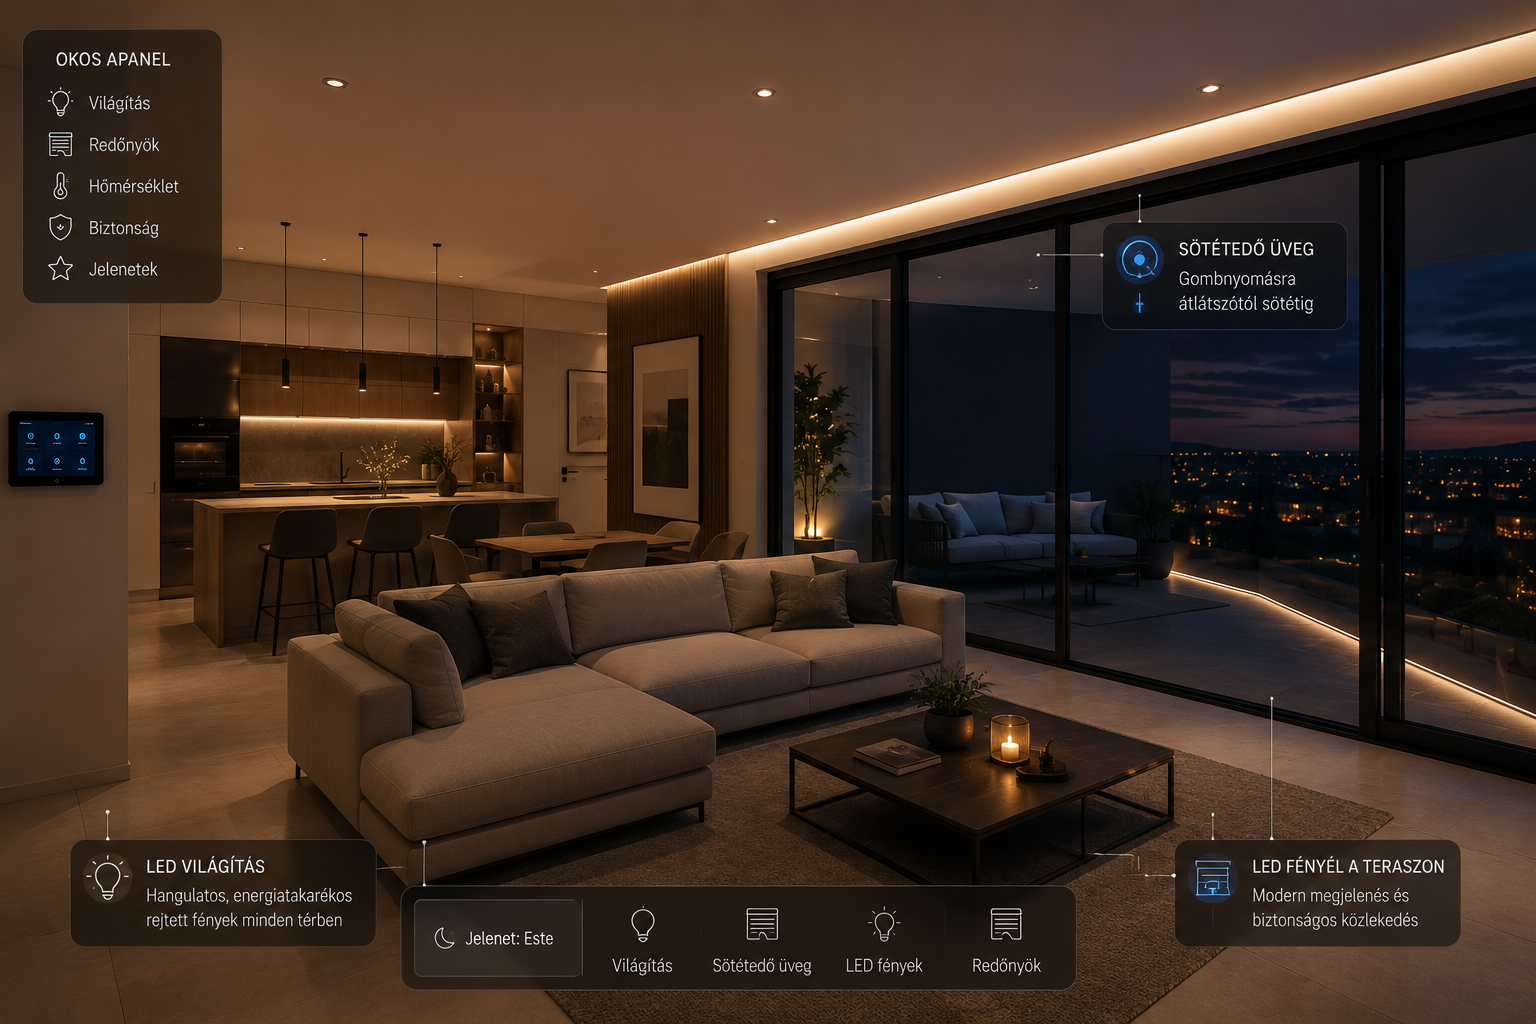
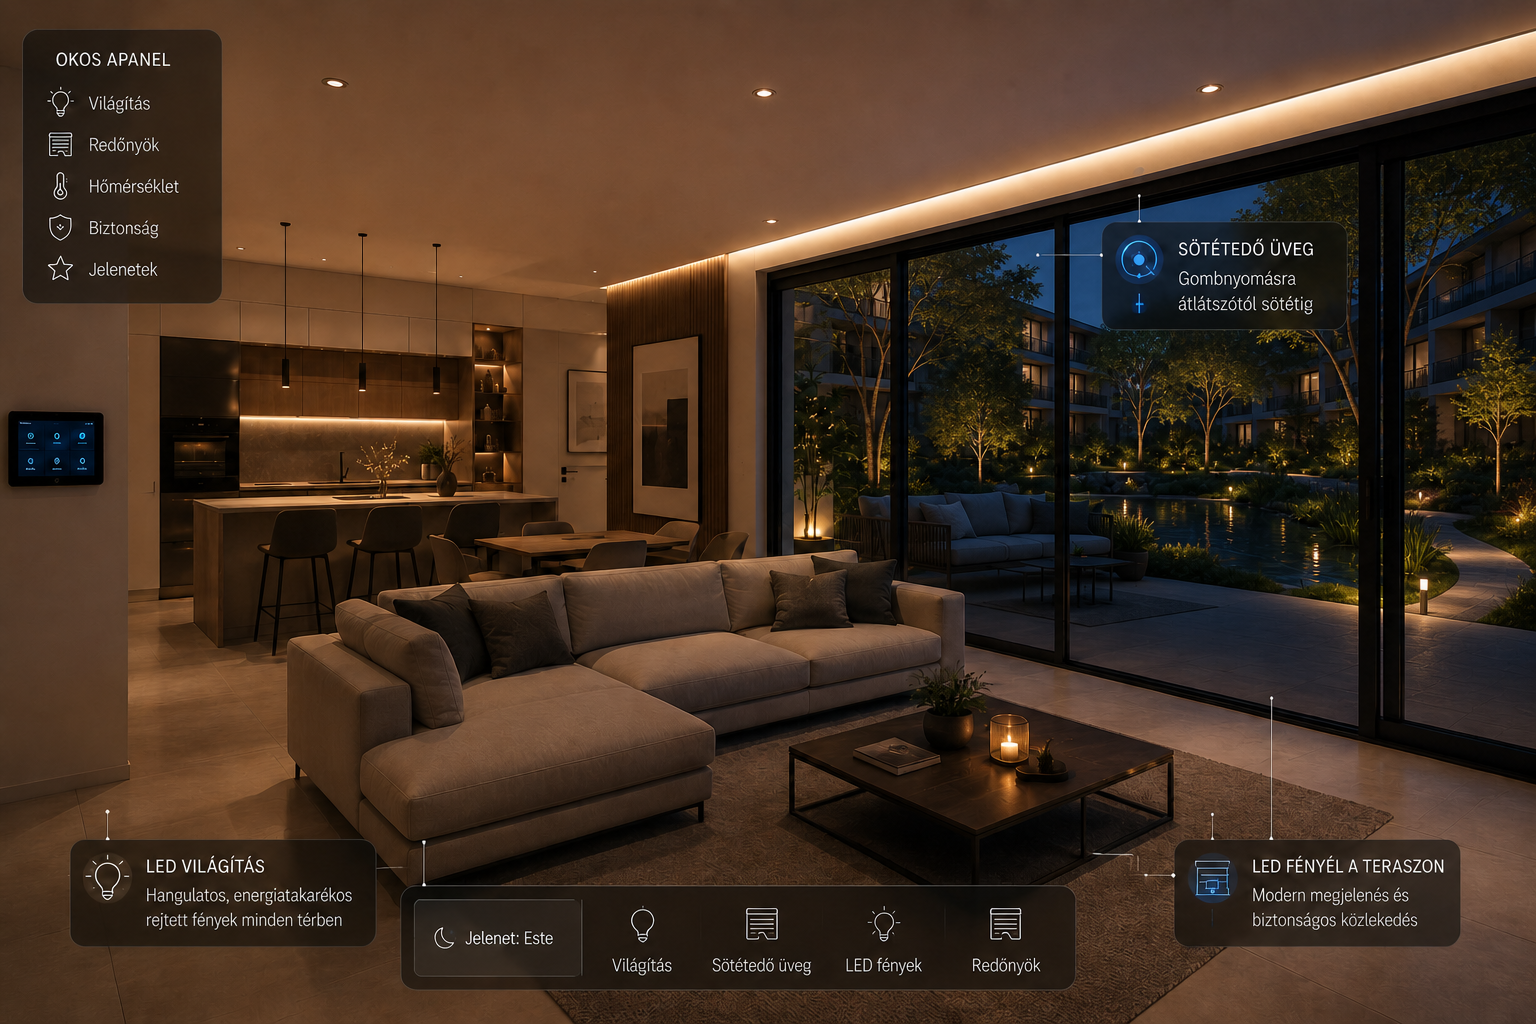
Apply owner content and Smart Park updates

diff --git a/app/page.tsx b/app/page.tsx
@@ -7,7 +7,7 @@ const apartments = [
   ["1 + fél szoba", "38–44 m²", "I–II. emelet", "Első otthonnak"],
   ["2 szoba", "52–61 m²", "I–III. emelet", "Pároknak tervezve"],
   ["3 szoba", "68–82 m²", "I–III. emelet", "Tágas családi tér"],
-  ["Penthouse", "96–118 m²", "IV. emelet", "Panorámás terasszal"],
+  ["Penthouse", "96–118 m²", "IV. emelet", "Tágas tetőterasszal"],
 ];
 
 function Brand({ light = false }: { light?: boolean }) {
@@ -46,8 +46,8 @@ export default function Home() {
     <section className="intro" id="projekt">
       <div><p className="kicker">A projektről</p><h2>Több mint lakóhely.<br/><em>Egy jól megtervezett élet.</em></h2></div>
       <div className="intro-copy">
-        <p>A Marek 5 egy kis léptékű, prémium szemléletű lakófejlesztés, ahol minden részlet a nyugodt hétköznapokat szolgálja. Világos otthonok, természetes anyagok és jövőálló műszaki megoldások.</p>
-        <ul><li>✓ Kortárs, időtálló építészeti karakter</li><li>✓ Energiahatékony gépészet és hőszigetelés</li><li>✓ Saját erkély vagy terasz minden lakáshoz</li></ul>
+        <p>A Marek 5 egy kis léptékű, prémium szemléletű lakófejlesztés, ahol minden részlet a nyugodt hétköznapokat szolgálja. Világos otthonok, természetes anyagok, jövőálló műszaki megoldások és egy parkosított belső kert központi tóval.</p>
+        <ul><li>✓ Kortárs, időtálló építészeti karakter</li><li>✓ Energiahatékony gépészet és hőszigetelés</li><li>✓ Tetőre telepített napelemek a közös terek, a parkvilágítás és a Smart Park energiaellátásának támogatására</li></ul>
         <a className="text-link" href="#elonyok">A részletek <span>→</span></a>
       </div>
       <div className="intro-image"><img src="/komarom/residence-sunset.png" alt="Modern lakóépületek parkosított környezetben naplementekor" className="cover" /></div>
@@ -64,7 +64,7 @@ export default function Home() {
     <section className="benefits" id="elonyok">
       <div className="section-heading"><p className="kicker">A Marek 5 előnyei</p><h2>Minőség, amit<br/><em>minden nap érez.</em></h2></div>
       <div className="benefit-grid">
-        {[["⌂","Átgondolt alaprajzok","Élhető terek, jó benapozás és kényelmes tárolás."],["⌁","Okosotthon-előkészítés","A világítás, árnyékolás és hőmérséklet jövőálló vezérlése."],["◇","Biztonságos környezet","Beléptetőrendszer, videókapu és zárt közösségi terek."],["✦","Prémium anyaghasználat","Időtálló burkolatok és gondosan összeválogatott részletek."]].map(([i,t,c],n) => <article key={t}><span className="number">0{n+1}</span><b className="benefit-icon">{i}</b><h3>{t}</h3><p>{c}</p></article>)}
+        {[["⌂","Átgondolt alaprajzok","Élhető terek, jó benapozás és kényelmes tárolás."],["⌁","Smart Home","A világítás, árnyékolás és hőmérséklet jövőálló vezérlése."],["◇","Smart Park","Napelemes ülőpadok USB- és vezeték nélküli töltéssel, energiatakarékos LED parkvilágítás és automata öntözés. A közösségi Wi-Fi és az e-bike-töltés opcionálisan kialakítható."],["✦","Prémium anyaghasználat","Időtálló burkolatok és gondosan összeválogatott részletek."]].map(([i,t,c],n) => <article key={t}><span className="number">0{n+1}</span><b className="benefit-icon">{i}</b><h3>{t}</h3><p>{c}</p></article>)}
       </div>
     </section>
 
@@ -72,8 +72,8 @@ export default function Home() {
       <div className="gallery-heading"><div><p className="kicker light-text">Látványtervek</p><h2>Az otthon érzése,<br/><em>már az első pillanatban.</em></h2></div><p>A képek a projekt tervezett hangulatát és anyaghasználatát szemléltetik.</p></div>
       <div className="gallery-grid">
         <figure className="wide"><img src="/komarom/interiors.png" alt="Prémium lakás enteriőrjei" className="cover"/><figcaption>Világos, természetes enteriőrök</figcaption></figure>
-        <figure><img src="/komarom/smart-home.png" alt="Okosotthon-megoldásokkal felszerelt modern nappali" className="cover"/><figcaption>Jövőálló kényelem</figcaption></figure>
-        <figure className="full"><img src="/komarom/residence-sunset.png" alt="A lakópark átfogó külső látványterve" className="cover"/><figcaption>Parkosított, privát lakókörnyezet</figcaption></figure>
+        <figure><img src="/komarom/smart-home.png" alt="Okosotthon-megoldásokkal felszerelt modern nappali, kilátással a belső parkra és a központi tóra" className="cover"/><figcaption>Smart Home · természetközeli kilátás</figcaption></figure>
+        <figure className="full"><img src="/komarom/smart-park.png" alt="Smart Park központi tóval, napelemes ülőpadokkal és energiatakarékos parkvilágítással" className="cover"/><figcaption>Smart Park · intelligens zöld környezet</figcaption></figure>
       </div>
     </section>
 